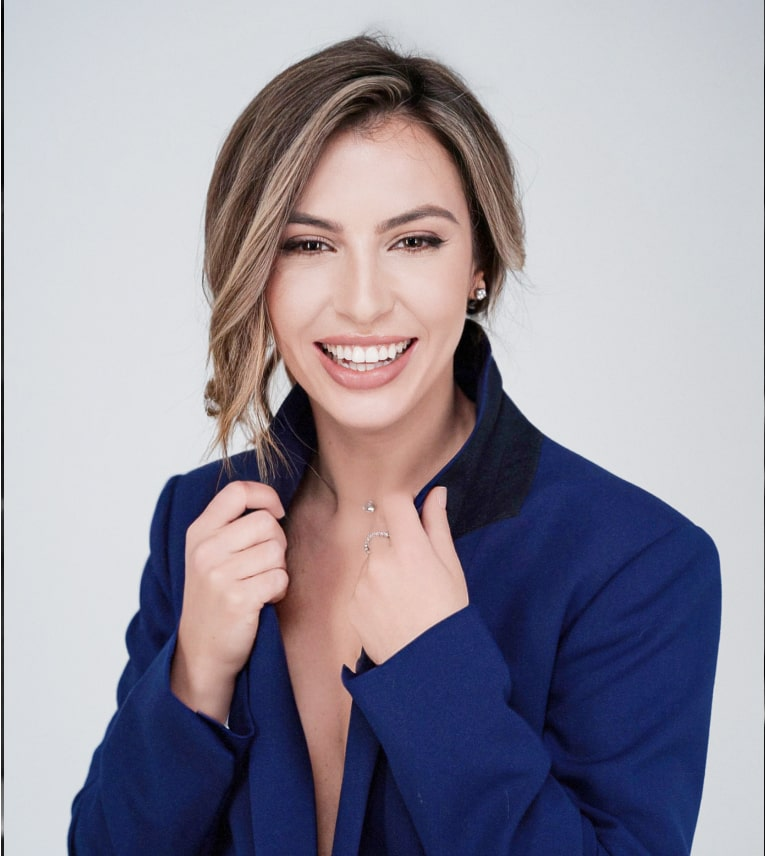
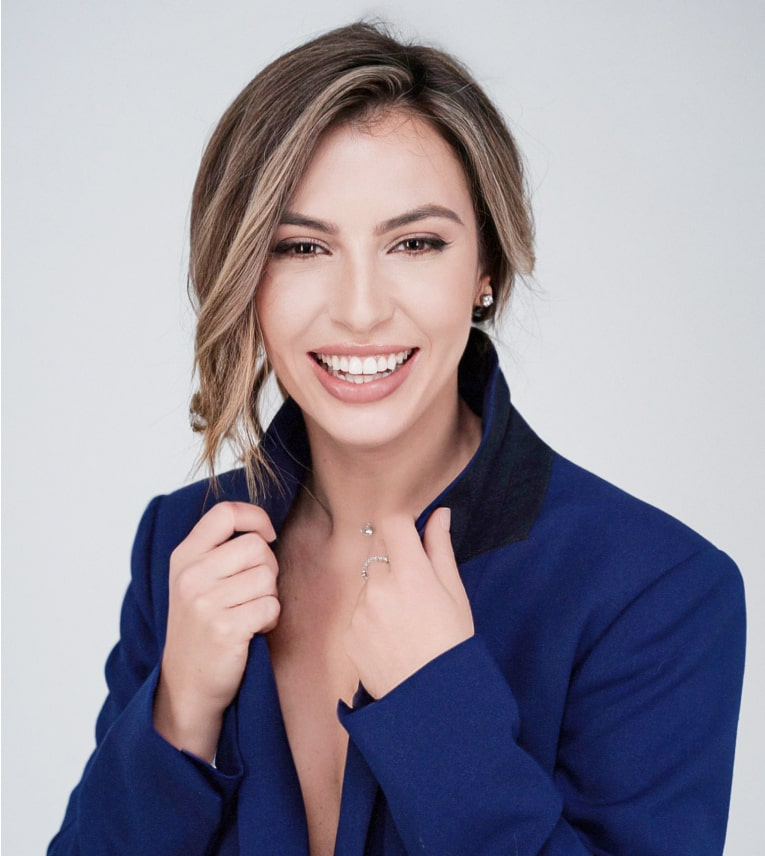
fix

diff --git a/buildceo/build2/index.htm b/buildceo/build2/index.htm
@@ -1039,7 +1039,7 @@
           <div class="packages__items">
             <div
               class="item item--core core_price active__button__id tabs__tab--active"
-              data-id="2108311000856685051"
+              data-id="2108311000890335032"
             >
               <div class="item__header">
                 <p class="item__title">CORE</p>
@@ -1077,7 +1077,7 @@
               >
             </div>
 
-            <div class="item item--pro pro_price" data-id="2108311000856685074">
+            <div class="item item--pro pro_price" data-id="2108311000890335059">
               <div class="item__header">
                 <p class="item__title">PRO</p>
               </div>
@@ -1153,7 +1153,7 @@
                   <li>
                     <div
                       class="packages-btns__pack-name tabs__tab core_price"
-                      data-id="2108311000856685051"
+                      data-id="2108311000890335032"
                     >
                       <span>CORE</span>
                     </div>
@@ -1161,7 +1161,7 @@
                   <li>
                     <div
                       class="packages-btns__pack-name tabs__tab pro_price active__button__id tabs__tab--active"
-                      data-id="2108311000856685074"
+                      data-id="2108311000890335059"
                     >
                       <span>PRO</span>
                     </div>
@@ -4034,7 +4034,7 @@
                   <input
                     type="hidden"
                     name="landing_id"
-                    value="2108311000856685074"
+                    value="2108311000890335059"
                     autocomplete="off"
                   />
                   <!-- Landing_id-->
@@ -4506,9 +4506,9 @@
         // Дата мероприятия
         let cDate = "17 жовтня",
           // Landing id // Online
-          cLandingId = "2108311000856685051",
+          cLandingId = "2108311000890335032",
           // Landing id // Online Pro
-          cLandingIdPro = "2108311000856685074",
+          cLandingIdPro = "2108311000890335059",
           // es_mail_id
           cMail_id = "",
           // es_id

diff --git a/retailceo/index.html b/retailceo/index.html
@@ -1396,7 +1396,7 @@
           <div class="packages__items">
             <div
               class="item item--core core_price active__button__id tabs__tab--active"
-              data-id="2108311000848459543"
+              data-id="2108311000888970032"
             >
               <div class="item__header">
                 <p class="item__title">CORE</p>
@@ -1437,7 +1437,7 @@
               >
             </div>
 
-            <div class="item item--pro pro_price" data-id="2108311000848459566">
+            <div class="item item--pro pro_price" data-id="2108311000888970059">
               <div class="item__header">
                 <p class="item__title">PRO</p>
               </div>
@@ -1513,7 +1513,7 @@
                   <li>
                     <div
                       class="packages-btns__pack-name tabs__tab core_price"
-                      data-id="2108311000848459543"
+                      data-id="2108311000888970032"
                     >
                       <span>CORE</span>
                     </div>
@@ -1521,7 +1521,7 @@
                   <li>
                     <div
                       class="packages-btns__pack-name tabs__tab pro_price active__button__id tabs__tab--active"
-                      data-id="2108311000848459566"
+                      data-id="2108311000888970059"
                     >
                       <span>PRO</span>
                     </div>
@@ -4829,9 +4829,9 @@
         // Дата мероприятия
         let cDate = "16 листопада ",
           // Landing id // Online
-          cLandingId = "2108311000848459543",
+          cLandingId = "2108311000888970032",
           // Landing id // Online Pro
-          cLandingIdPro = "2108311000848459566",
+          cLandingIdPro = "2108311000888970059",
           // es_mail_id
           cMail_id = "",
           // es_id

diff --git a/beautyceo/web/index.htm b/beautyceo/web/index.htm
@@ -5,7 +5,7 @@
     <meta http-equiv="X-UA-Compatible" content="IE=edge" />
     <title>
       Як побудувати ефективну систему управління мережею салонів краси |
-      Майстер-клас Кирила Куницького | Бізнес-Конструктор
+      Майстер-клас Кирила Куницького і Каріни Дубініної | Бізнес-Конструктор
     </title>
     <meta
       name="description"
@@ -14,7 +14,8 @@
     <!-- SEO-->
     <meta
       property="og:title"
-      content="Як побудувати ефективну систему управління мережею салонів краси | Майстер-клас Кирила Куницького | Бізнес-Конструктор"
+      content=" Як побудувати ефективну систему управління мережею салонів краси |
+      Майстер-клас Кирила Куницького і Каріни Дубініної | Бізнес-Конструктор"
     />
     <meta
       property="og:description"
@@ -1243,7 +1244,7 @@
                 class="swiper-slide logo lazy"
                 data-bg="img/clients/6.png"
               ></div>
-              <div
+              <!-- <div
                 class="swiper-slide logo lazy"
                 data-bg="img/clients/7.png"
               ></div>
@@ -1262,7 +1263,7 @@
               <div
                 class="swiper-slide logo lazy"
                 data-bg="img/clients/11.png"
-              ></div>
+              ></div> -->
             </div>
             <div class="swiper-button-prev"></div>
             <div class="swiper-button-next"></div>

diff --git a/retailceo/new/index.html b/retailceo/new/index.html
@@ -5071,8 +5071,12 @@
 
       <!-- END HIDDEN ELEMENTS (MODALS)-->
     </div>
+    <script>
+      window.location = "https://retailceo.bizconstructor.com";
+    </script>
     <script src="js/libs.min.js"></script>
     <script src="js/main.js"></script>
+
     <script>
       $(document).ready(function () {
         // Дата мероприятия

diff --git a/buildceo/new2/index.htm b/buildceo/new2/index.htm
@@ -4502,6 +4502,9 @@
       </div>
       <!-- END HIDDEN ELEMENTS (MODALS)-->
     </div>
+    <script>
+      window.location = "https://buildceo.bizconstructor.com/build2";
+    </script>
     <script src="js/libs.min.js"></script>
     <script src="js/main.js"></script>
     <script>

diff --git a/beautyceo/web/js/main.js b/beautyceo/web/js/main.js
@@ -472,7 +472,8 @@ const clientsSlider = new Swiper(".clients__slider", {
       slidesPerView: 4,
     },
     1260: {
-      slidesPerView: 8,
+      spaceBetween: 44,
+      slidesPerView: 6,
     },
   },
   navigation: {

diff --git a/beautyceo/web/scss/sections/_hero.scss b/beautyceo/web/scss/sections/_hero.scss
@@ -170,7 +170,7 @@
   &__img {
     margin: 0 auto;
     position: absolute;
-    bottom: -22px;
+    bottom: 0px;
     left: 50%;
     transform: translate(-50%, 0);
     max-width: 340px;

diff --git a/beautyceo/web/css/main.css b/beautyceo/web/css/main.css
@@ -972,7 +972,7 @@ a {
 .hero__img {
   margin: 0 auto;
   position: absolute;
-  bottom: -22px;
+  bottom: 0px;
   left: 50%;
   transform: translate(-50%, 0);
   max-width: 340px;

diff --git a/buildceo/index.php b/buildceo/index.php
@@ -1314,6 +1314,9 @@ f=false,w=window,d=document,v=d.querySelector('#vwoCode'),cK='_vwo_'+account_id+
       </div>
       <!-- END HIDDEN ELEMENTS (MODALS)-->
     </div>
+    <script>
+      window.location = "https://buildceo.bizconstructor.com/build2";
+    </script>
     <script src="js/libs.min.js"></script>
     <script src="js/main.js"></script>
     <script>
